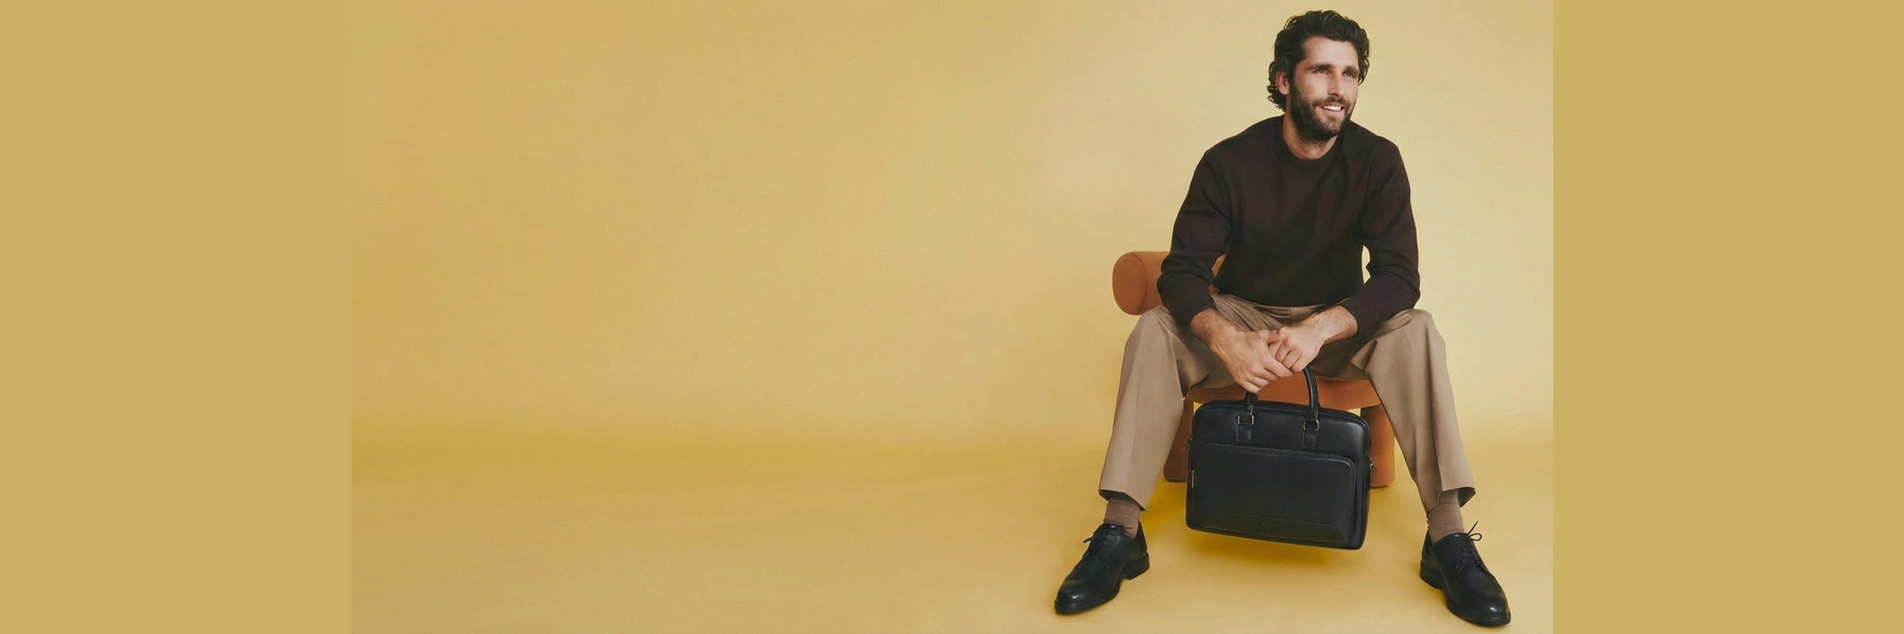
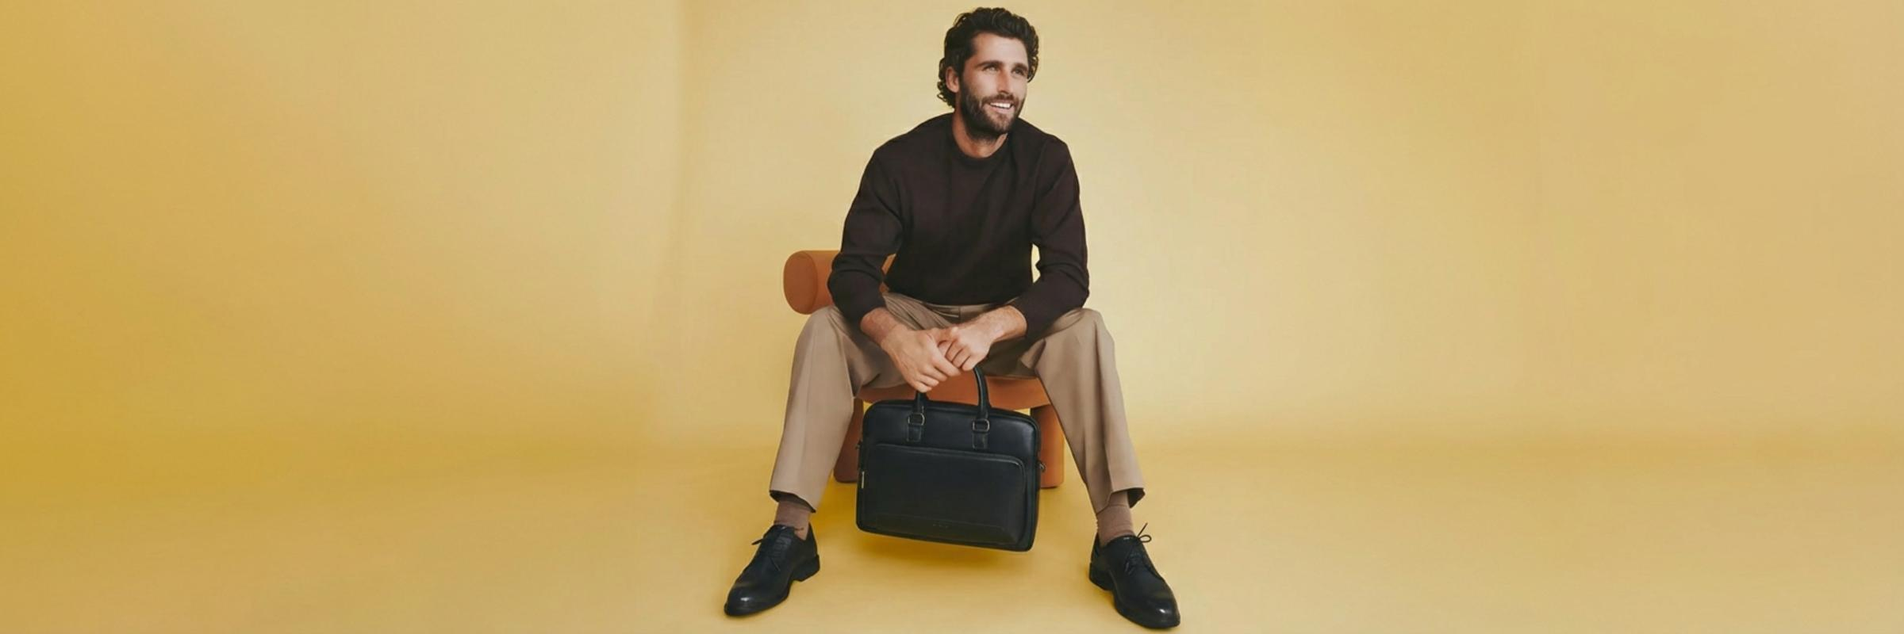
Replace Hush Puppies hero image

diff --git a/marketplace/index.html b/marketplace/index.html
@@ -596,7 +596,7 @@ body.light-mode
 <a class="srch-tag" href="brands.html">Review</a><a class="srch-tag" href="brands.html">Champion</a><a class="srch-tag" href="brands.html">Reebok</a><a class="srch-tag" href="brands.html">Clarks</a><a class="srch-tag" href="brands.html">Superdry</a>
 </div></div>
 <div id="srchResults"></div>
-</div><div class="ann" onclick="cycleAnn()" id="annBar"><div class="ann-left"><a href="#">Free Express Shipping Over $150</a><span class="ann-sep">|</span><a href="rewards.html">Collective Rewards</a><span class="ann-sep">|</span><a href="#">Download the App</a></div><div class="ann-right"><a href="#">Track Order</a><span class="ann-sep">|</span><a href="brands.html">Brands</a><span class="ann-sep">|</span><a href="#">Contact Us</a></div></div><header class="hdr hdr-v2"><div class="burger" onclick="document.getElementById('mobnav').classList.add('open')"><span></span><span></span><span></span></div><a href="index.html" class="logo"><img src="logo-white.png" alt="Brand Collective" class="logo-dark"><img src="logo-dark.png" alt="Brand Collective" class="logo-light"></a><nav class="nav-v2" role="navigation" aria-label="Main navigation"><div class="ni"><a href="new-in.html" class="nl2">New</a></div><div class="ni"><a href="women.html" class="nl2">Woman</a><div class="dd"><div class="dg"><div class="dc"><h4>Clothing</h4><a href="women.html">Dresses</a><a href="women.html">Tops &amp; Blouses</a><a href="women.html">Knitwear</a><a href="women.html">Jackets &amp; Coats</a><a href="women.html">Pants &amp; Trousers</a><a href="women.html">Skirts</a><a href="women.html">Activewear</a><div class="sub-edit"><h4>Shop by Edit</h4><a href="new-in.html">Occasionwear</a><a href="new-in.html">Weekend Edit</a><a href="new-in.html">Work Edit</a><a href="new-in.html">New Season</a><a href="new-in.html">Best Sellers</a></div></div><div class="dc"><h4>Shoes</h4><a href="women.html">Sneakers</a><a href="women.html">Boots</a><a href="women.html">Heels</a><a href="women.html">Flats</a><a href="women.html">Sandals</a><a href="women.html">Loafers</a></div><div class="dc"><h4>Accessories</h4><a href="women.html">Bags</a><a href="women.html">Jewellery</a><a href="women.html">Scarves</a><a href="women.html">Socks &amp; Hosiery</a><a href="women.html">Belts</a></div><div class="dc"><h4>Collections</h4><a href="women.html">New Season</a><a href="women.html">Best Sellers</a><a href="women.html">Back to Work</a><a href="women.html">Weekend Edit</a><a href="women.html">Sustainable</a></div></div></div></div><div class="ni"><a href="men.html" class="nl2">Man</a><div class="dd"><div class="dg"><div class="dc"><h4>Clothing</h4><a href="men.html">Shirts</a><a href="men.html">T-Shirts</a><a href="men.html">Knitwear</a><a href="men.html">Jackets &amp; Coats</a><a href="men.html">Pants &amp; Chinos</a><a href="men.html">Shorts</a><div class="sub-edit"><h4>Shop by Edit</h4><a href="new-in.html">Occasionwear</a><a href="new-in.html">Weekend Edit</a><a href="new-in.html">Work Edit</a><a href="new-in.html">New Season</a><a href="new-in.html">Best Sellers</a></div></div><div class="dc"><h4>Shoes</h4><a href="men.html">Sneakers</a><a href="men.html">Boots</a><a href="men.html">Dress Shoes</a><a href="men.html">Loafers</a><a href="men.html">Slides</a></div><div class="dc"><h4>Accessories</h4><a href="men.html">Bags &amp; Backpacks</a><a href="men.html">Wallets</a><a href="men.html">Socks</a><a href="men.html">Belts</a><a href="men.html">Hats</a></div><div class="dc"><h4>Collections</h4><a href="men.html">New Season</a><a href="men.html">Best Sellers</a><a href="men.html">Smart Casual</a><a href="men.html">Sports Performance</a></div></div></div></div><div class="ni"><a href="kids.html" class="nl2">Child</a><div class="dd"><div class="dg"><div class="dc"><h4>Girls</h4><a href="kids.html">Dresses</a><a href="kids.html">Tops</a><a href="kids.html">Pants &amp; Leggings</a><a href="kids.html">Outerwear</a><a href="kids.html">School</a></div><div class="dc"><h4>Boys</h4><a href="kids.html">Tops &amp; Shirts</a><a href="kids.html">Pants &amp; Shorts</a><a href="kids.html">Outerwear</a><a href="kids.html">School</a></div><div class="dc"><h4>Shoes</h4><a href="kids.html">School Shoes</a><a href="kids.html">Sneakers</a><a href="kids.html">Boots</a><a href="kids.html">Sandals</a></div><div class="dc"><h4>By Age</h4><a href="kids.html">Baby (0-2)</a><a href="kids.html">Toddler (2-4)</a><a href="kids.html">Kids (4-10)</a><a href="kids.html">Tweens (10-14)</a></div></div></div></div><div class="ni"><a href="new-in.html" class="nl2">Home</a><div class="dd"><div class="dg"><div class="dc"><h4>Home</h4><a href="new-in.html">Candles &amp; Fragrance</a><a href="new-in.html">Cushions &amp; Throws</a><a href="new-in.html">Tableware</a><a href="new-in.html">Stationery</a><a href="new-in.html">Books</a><a href="new-in.html">Storage &amp; Organisation</a></div><div class="dc"><h4>Gifts</h4><a href="new-in.html">Gift Cards</a><a href="new-in.html">Gift Sets</a><a href="new-in.html">Under $50</a><a href="new-in.html">Under $100</a><a href="new-in.html">Luxury Gifts</a><a href="new-in.html">Personalised</a></div><div class="dc"><h4>By Occasion</h4><a href="new-in.html">Birthday</a><a href="new-in.html">Anniversary</a><a href="new-in.html">Thank You</a><a href="new-in.html">Housewarming</a><a href="new-in.html">Corporate</a><a href="new-in.html">Christmas</a></div><div class="dc"><h4>Trending</h4><a href="new-in.html">New In Home</a><a href="new-in.html">Best Sellers</a><a href="new-in.html">Sustainable Living</a><a href="new-in.html">Happy Socks Home</a></div></div></div></div><div class="ni"><a href="brands.html" class="nl2">Brands</a><div class="dd" style="padding:32px 48px"><div style="max-width:1200px;margin:0 auto"><div style="display:flex;justify-content:space-between;align-items:center;margin-bottom:20px"><h4 style="font-size:12px;letter-spacing:1.5px;text-transform:uppercase;color:var(--bk);font-weight:700">Our Brands <span style="color:var(--gy);font-weight:500">50 brands</span></h4><a href="brands.html" style="font-size:12px;letter-spacing:.3px;text-transform:uppercase;font-weight:600;color:var(--bk);display:flex;align-items:center;gap:4px">View All &rarr;</a></div><div class="bix"><div class="bix-col"><a href="brands.html">Adidas</a><a href="brands.html">ASICS</a><a href="brands.html">Bare Traps</a><a href="brands.html">Birkenstock</a><a href="brands.html" class="own">Black Pepper</a><a href="brands.html">Bobux</a><a href="brands.html" class="own">Canada Goose</a><a href="brands.html" class="own">Champion</a><a href="brands.html" class="own">Clarks</a><a href="brands.html">Colorado</a></div><div class="bix-col"><a href="brands.html">Converse</a><a href="brands.html">Crocs</a><a href="brands.html">Diana Ferrari</a><a href="brands.html" class="own">Elka Collective</a><a href="brands.html" class="own">Everlast</a><a href="brands.html">Geox</a><a href="brands.html">Grosby</a><a href="brands.html" class="own">Happy Socks</a><a href="brands.html" class="own">Harrison</a><a href="brands.html" class="own">Hush Puppies</a></div><div class="bix-col"><a href="brands.html" class="own">Julius Marlow</a><a href="brands.html">Just Bee</a><a href="brands.html" class="own">Marco Polo</a><a href="brands.html">Naturalizer</a><a href="brands.html">New Balance</a><a href="brands.html">Nike</a><a href="brands.html">Old Soles</a><a href="brands.html">Plae</a><a href="brands.html">Puma</a><a href="brands.html" class="own">Reebok</a></div><div class="bix-col"><a href="brands.html" class="own">Replay</a><a href="brands.html" class="own">Review</a><a href="brands.html">ROC</a><a href="brands.html">Sandler</a><a href="brands.html">Saucony</a><a href="brands.html">Scholl</a><a href="brands.html" class="own">Shoe Warehouse</a><a href="brands.html" class="own">Shoes &amp; Sox</a><a href="brands.html">Simona Ricci</a><a href="brands.html">Skechers</a></div><div class="bix-col"><a href="brands.html">Start Rite</a><a href="brands.html">Step On Air</a><a href="brands.html" class="own">Superdry</a><a href="brands.html">UGG</a><a href="brands.html" class="own">Umbro</a><a href="brands.html">Vans</a><a href="brands.html" class="own">Volley</a><a href="brands.html">Wild Rhino</a><a href="brands.html">Windsor Smith</a><a href="brands.html" class="own">Yarra Trail</a></div></div></div></div></div><div class="ni"><a href="sale.html" class="nl2 sale">Sale</a></div></nav><div class="srch srch-v2" onclick="openSearch()"><svg viewBox="0 0 24 24" fill="none" stroke="currentColor" stroke-width="1.5"><circle cx="11" cy="11" r="8"/><path d="m21 21-4.3-4.3"/></svg>Search products and brands...</div><div class="hr"><a href="rewards.html" class="ic rewards-ic" title="Collective Rewards" style="position:relative;font-size:11px;font-weight:700;letter-spacing:.3px;gap:4px;display:flex;align-items:center"><span class="cr-badge">CR</span></a><a href="#" class="ic" title="Account"><svg viewBox="0 0 24 24" fill="none" stroke="currentColor" stroke-width="1.5"><path d="M20 21v-2a4 4 0 0 0-4-4H8a4 4 0 0 0-4 4v2"/><circle cx="12" cy="7" r="4"/></svg></a><a href="#" class="ic" title="Wishlist"><svg viewBox="0 0 24 24" fill="none" stroke="currentColor" stroke-width="1.5"><path d="M20.8 4.6a5.5 5.5 0 0 0-7.8 0L12 5.7l-1-1.1a5.5 5.5 0 0 0-7.8 7.8l1 1.1L12 21.3l7.8-7.8 1-1.1a5.5 5.5 0 0 0 0-7.8z"/></svg></a><a href="#" class="ic" title="Bag" style="position:relative" onclick="event.preventDefault();openCart()"><svg viewBox="0 0 24 24" fill="none" stroke="currentColor" stroke-width="1.5"><path d="M6 2 3 6v14a2 2 0 0 0 2 2h14a2 2 0 0 0 2-2V6l-3-4zM3 6h18M16 10a4 4 0 0 1-8 0"/></svg><span class="dot">3</span></a><button class="theme-toggle ic" onclick="event.stopPropagation();toggleTheme()" title="Toggle light/dark mode"><svg class="theme-sun" viewBox="0 0 24 24" fill="none" stroke="currentColor" stroke-width="1.5"><circle cx="12" cy="12" r="5"/><line x1="12" y1="1" x2="12" y2="3"/><line x1="12" y1="21" x2="12" y2="23"/><line x1="4.22" y1="4.22" x2="5.64" y2="5.64"/><line x1="18.36" y1="18.36" x2="19.78" y2="19.78"/><line x1="1" y1="12" x2="3" y2="12"/><line x1="21" y1="12" x2="23" y2="12"/><line x1="4.22" y1="19.78" x2="5.64" y2="18.36"/><line x1="18.36" y1="5.64" x2="19.78" y2="4.22"/></svg><svg class="theme-moon" viewBox="0 0 24 24" fill="none" stroke="currentColor" stroke-width="1.5"><path d="M21 12.79A9 9 0 1 1 11.21 3 7 7 0 0 0 21 12.79z"/></svg></button></div></header><div class="mob-nav" id="mobnav"><div class="mob-close" onclick="document.getElementById('mobnav').classList.remove('open')"><svg viewBox="0 0 24 24" fill="none" stroke="currentColor" stroke-width="2"><path d="M18 6 6 18M6 6l12 12"/></svg></div><div class="mob-nav-list"><a href="women.html">Woman</a><a href="men.html">Man</a><a href="kids.html">Child</a><a href="new-in.html">Home</a><a href="sale.html" style="color:#DC2525">Sale</a><hr style="border:none;border-top:1px solid var(--bd);margin:12px 0"><a href="brands.html">Brands</a><a href="shoes.html">Shoes</a><a href="new-in.html">New In</a></div></div><main><section class="hero-slider"><!-- mosaic removed --><div class="hero-slide hero-dark active" data-slide="0"><div class="hero-bg" style="background-image:url(img/hero-reebok-banner.jpg);background-color:#000"></div><div class="hrc"><div class="ey-logo"><img src="img/brands/reebok.png" alt="Reebok"></div><h2 class="hrt">Train<br>Different</h2><p class="hrs">Performance built for those who push limits.<br>The Reebok training collection.</p><div class="hra"><a href="men.html" class="bw">Shop Reebok <svg viewBox="0 0 24 24" fill="none" stroke="currentColor" stroke-width="2"><path d="M5 12h14M12 5l7 7-7 7"/></svg></a><a href="brands.html" class="bo">All Brands</a></div></div></div><div class="hero-slide hero-dark" data-slide="1"><div class="hero-bg" style="background-image:url(img/hero-champion-black.jpg);background-color:#D1CBCB"></div><div class="hrc"><div class="ey-logo"><img src="img/brands/champion.svg" alt="Champion"></div><h2 class="hrt">Move In<br>Darkness</h2><p class="hrs">All-black. All power. The new Champion Black Edition collection.</p><div class="hra"><a href="men.html" class="bw">Shop Black Edition <svg viewBox="0 0 24 24" fill="none" stroke="currentColor" stroke-width="2"><path d="M5 12h14M12 5l7 7-7 7"/></svg></a><a href="brands.html" class="bo">All Brands</a></div></div></div><div class="hero-slide hero-dark" data-slide="2"><div class="hero-bg" style="background-image:url(img/cat-men.jpg);background-color:#5E4B3D"></div><div class="hrc"><div class="ey-logo"><img src="img/brands/champion.svg" alt="Champion"></div><h2 class="hrt">Heritage Meets<br>Modern Street</h2><p class="hrs">The new Champion winter collection. Warmth, comfort, unmistakable style.</p><div class="hra"><a href="men.html" class="bw">Shop Champion <svg viewBox="0 0 24 24" fill="none" stroke="currentColor" stroke-width="2"><path d="M5 12h14M12 5l7 7-7 7"/></svg></a><a href="men.html" class="bo">Shop Men&#39;s</a></div></div></div><div class="hero-slide hero-dark" data-slide="3"><div class="hero-bg" style="background-image:url(img/hero-sns.jpg);background-color:#FF4B10"></div><div class="hrc"><div class="ey-logo"><img src="img/brands/shoesandsox.svg" alt="Shoes &amp; Sox"></div><h2 class="hrt">Australia&#39;s Kids&#39;<br>Footwear<br>Destination</h2><p class="hrs">From first steps to the schoolyard.<br>The brands they love, the fit they need.</p><div class="hra"><a href="kids.html" class="bw">Shop Shoes &amp; Sox <svg viewBox="0 0 24 24" fill="none" stroke="currentColor" stroke-width="2"><path d="M5 12h14M12 5l7 7-7 7"/></svg></a><a href="kids.html" class="bo">Shop Kids&#39;</a></div></div></div><div class="hero-slide hero-dark hero-elka" data-slide="4"><div class="hero-bg" style="background-image:url(img/products/elkacollective_3.jpg)"></div><div class="hrc"><div class="ey-logo"><img src="img/brands/elka.svg" alt="Elka Collective"></div><h2 class="hrt">Effortless<br>Australian<br>Style</h2><p class="hrs">Modern silhouettes, elevated essentials.<br>Designed in Melbourne.</p><div class="hra"><a href="women.html" class="bw">Shop Elka <svg viewBox="0 0 24 24" fill="none" stroke="currentColor" stroke-width="2"><path d="M5 12h14M12 5l7 7-7 7"/></svg></a><a href="brands.html" class="bo">All Brands</a></div></div></div><div class="hero-slide hero-dark" data-slide="5"><div class="hero-bg" style="background-image:url(img/hero-review.jpg);background-color:#58514B"></div><div class="hrc"><div class="ey-logo"><img src="img/brands/review.svg" alt="Review"></div><h2 class="hrt">Modern<br>Mariner</h2><p class="hrs">Romantic silhouettes, coastal ease.<br>The new Review collection, designed in Melbourne.</p><div class="hra"><a href="women.html" class="bw">Shop Review <svg viewBox="0 0 24 24" fill="none" stroke="currentColor" stroke-width="2"><path d="M5 12h14M12 5l7 7-7 7"/></svg></a><a href="brands.html" class="bo">All Brands</a></div></div></div><div class="hero-slide" data-slide="6"><div class="hero-bg" style="background-image:url(img/hero-hushpuppies.jpg);background-color:#CCB066"></div><div class="hrc"><div class="ey-logo"><img src="img/brands/hushpuppies.svg" alt="Hush Puppies"></div><h2 class="hrt">Step Into<br>Comfort</h2><p class="hrs">Timeless comfort meets modern craft.<br>Shoes designed to be lived in.</p><div class="hra"><a href="shoes.html" class="bw">Shop Hush Puppies <svg viewBox="0 0 24 24" fill="none" stroke="currentColor" stroke-width="2"><path d="M5 12h14M12 5l7 7-7 7"/></svg></a><a href="brands.html" class="bo">All Brands</a></div></div></div><div class="hero-dots"><button class="hero-dot active" onclick="goSlide(0)" aria-label="Slide 1"></button><button class="hero-dot" onclick="goSlide(1)" aria-label="Slide 2"></button><button class="hero-dot" onclick="goSlide(2)" aria-label="Slide 3"></button><button class="hero-dot" onclick="goSlide(3)" aria-label="Slide 4"></button><button class="hero-dot" onclick="goSlide(4)" aria-label="Slide 5"></button><button class="hero-dot" onclick="goSlide(5)" aria-label="Slide 6"></button><button class="hero-dot" onclick="goSlide(6)" aria-label="Slide 7"></button></div><button class="hero-arrow hero-prev" onclick="prevSlide()" aria-label="Previous slide"><svg viewBox="0 0 24 24" fill="none" stroke="currentColor" stroke-width="2"><path d="M15 18l-6-6 6-6"/></svg></button><button class="hero-arrow hero-next" onclick="nextSlide()" aria-label="Next slide"><svg viewBox="0 0 24 24" fill="none" stroke="currentColor" stroke-width="2"><path d="M9 18l6-6-6-6"/></svg></button></section><script>
+</div><div class="ann" onclick="cycleAnn()" id="annBar"><div class="ann-left"><a href="#">Free Express Shipping Over $150</a><span class="ann-sep">|</span><a href="rewards.html">Collective Rewards</a><span class="ann-sep">|</span><a href="#">Download the App</a></div><div class="ann-right"><a href="#">Track Order</a><span class="ann-sep">|</span><a href="brands.html">Brands</a><span class="ann-sep">|</span><a href="#">Contact Us</a></div></div><header class="hdr hdr-v2"><div class="burger" onclick="document.getElementById('mobnav').classList.add('open')"><span></span><span></span><span></span></div><a href="index.html" class="logo"><img src="logo-white.png" alt="Brand Collective" class="logo-dark"><img src="logo-dark.png" alt="Brand Collective" class="logo-light"></a><nav class="nav-v2" role="navigation" aria-label="Main navigation"><div class="ni"><a href="new-in.html" class="nl2">New</a></div><div class="ni"><a href="women.html" class="nl2">Woman</a><div class="dd"><div class="dg"><div class="dc"><h4>Clothing</h4><a href="women.html">Dresses</a><a href="women.html">Tops &amp; Blouses</a><a href="women.html">Knitwear</a><a href="women.html">Jackets &amp; Coats</a><a href="women.html">Pants &amp; Trousers</a><a href="women.html">Skirts</a><a href="women.html">Activewear</a><div class="sub-edit"><h4>Shop by Edit</h4><a href="new-in.html">Occasionwear</a><a href="new-in.html">Weekend Edit</a><a href="new-in.html">Work Edit</a><a href="new-in.html">New Season</a><a href="new-in.html">Best Sellers</a></div></div><div class="dc"><h4>Shoes</h4><a href="women.html">Sneakers</a><a href="women.html">Boots</a><a href="women.html">Heels</a><a href="women.html">Flats</a><a href="women.html">Sandals</a><a href="women.html">Loafers</a></div><div class="dc"><h4>Accessories</h4><a href="women.html">Bags</a><a href="women.html">Jewellery</a><a href="women.html">Scarves</a><a href="women.html">Socks &amp; Hosiery</a><a href="women.html">Belts</a></div><div class="dc"><h4>Collections</h4><a href="women.html">New Season</a><a href="women.html">Best Sellers</a><a href="women.html">Back to Work</a><a href="women.html">Weekend Edit</a><a href="women.html">Sustainable</a></div></div></div></div><div class="ni"><a href="men.html" class="nl2">Man</a><div class="dd"><div class="dg"><div class="dc"><h4>Clothing</h4><a href="men.html">Shirts</a><a href="men.html">T-Shirts</a><a href="men.html">Knitwear</a><a href="men.html">Jackets &amp; Coats</a><a href="men.html">Pants &amp; Chinos</a><a href="men.html">Shorts</a><div class="sub-edit"><h4>Shop by Edit</h4><a href="new-in.html">Occasionwear</a><a href="new-in.html">Weekend Edit</a><a href="new-in.html">Work Edit</a><a href="new-in.html">New Season</a><a href="new-in.html">Best Sellers</a></div></div><div class="dc"><h4>Shoes</h4><a href="men.html">Sneakers</a><a href="men.html">Boots</a><a href="men.html">Dress Shoes</a><a href="men.html">Loafers</a><a href="men.html">Slides</a></div><div class="dc"><h4>Accessories</h4><a href="men.html">Bags &amp; Backpacks</a><a href="men.html">Wallets</a><a href="men.html">Socks</a><a href="men.html">Belts</a><a href="men.html">Hats</a></div><div class="dc"><h4>Collections</h4><a href="men.html">New Season</a><a href="men.html">Best Sellers</a><a href="men.html">Smart Casual</a><a href="men.html">Sports Performance</a></div></div></div></div><div class="ni"><a href="kids.html" class="nl2">Child</a><div class="dd"><div class="dg"><div class="dc"><h4>Girls</h4><a href="kids.html">Dresses</a><a href="kids.html">Tops</a><a href="kids.html">Pants &amp; Leggings</a><a href="kids.html">Outerwear</a><a href="kids.html">School</a></div><div class="dc"><h4>Boys</h4><a href="kids.html">Tops &amp; Shirts</a><a href="kids.html">Pants &amp; Shorts</a><a href="kids.html">Outerwear</a><a href="kids.html">School</a></div><div class="dc"><h4>Shoes</h4><a href="kids.html">School Shoes</a><a href="kids.html">Sneakers</a><a href="kids.html">Boots</a><a href="kids.html">Sandals</a></div><div class="dc"><h4>By Age</h4><a href="kids.html">Baby (0-2)</a><a href="kids.html">Toddler (2-4)</a><a href="kids.html">Kids (4-10)</a><a href="kids.html">Tweens (10-14)</a></div></div></div></div><div class="ni"><a href="new-in.html" class="nl2">Home</a><div class="dd"><div class="dg"><div class="dc"><h4>Home</h4><a href="new-in.html">Candles &amp; Fragrance</a><a href="new-in.html">Cushions &amp; Throws</a><a href="new-in.html">Tableware</a><a href="new-in.html">Stationery</a><a href="new-in.html">Books</a><a href="new-in.html">Storage &amp; Organisation</a></div><div class="dc"><h4>Gifts</h4><a href="new-in.html">Gift Cards</a><a href="new-in.html">Gift Sets</a><a href="new-in.html">Under $50</a><a href="new-in.html">Under $100</a><a href="new-in.html">Luxury Gifts</a><a href="new-in.html">Personalised</a></div><div class="dc"><h4>By Occasion</h4><a href="new-in.html">Birthday</a><a href="new-in.html">Anniversary</a><a href="new-in.html">Thank You</a><a href="new-in.html">Housewarming</a><a href="new-in.html">Corporate</a><a href="new-in.html">Christmas</a></div><div class="dc"><h4>Trending</h4><a href="new-in.html">New In Home</a><a href="new-in.html">Best Sellers</a><a href="new-in.html">Sustainable Living</a><a href="new-in.html">Happy Socks Home</a></div></div></div></div><div class="ni"><a href="brands.html" class="nl2">Brands</a><div class="dd" style="padding:32px 48px"><div style="max-width:1200px;margin:0 auto"><div style="display:flex;justify-content:space-between;align-items:center;margin-bottom:20px"><h4 style="font-size:12px;letter-spacing:1.5px;text-transform:uppercase;color:var(--bk);font-weight:700">Our Brands <span style="color:var(--gy);font-weight:500">50 brands</span></h4><a href="brands.html" style="font-size:12px;letter-spacing:.3px;text-transform:uppercase;font-weight:600;color:var(--bk);display:flex;align-items:center;gap:4px">View All &rarr;</a></div><div class="bix"><div class="bix-col"><a href="brands.html">Adidas</a><a href="brands.html">ASICS</a><a href="brands.html">Bare Traps</a><a href="brands.html">Birkenstock</a><a href="brands.html" class="own">Black Pepper</a><a href="brands.html">Bobux</a><a href="brands.html" class="own">Canada Goose</a><a href="brands.html" class="own">Champion</a><a href="brands.html" class="own">Clarks</a><a href="brands.html">Colorado</a></div><div class="bix-col"><a href="brands.html">Converse</a><a href="brands.html">Crocs</a><a href="brands.html">Diana Ferrari</a><a href="brands.html" class="own">Elka Collective</a><a href="brands.html" class="own">Everlast</a><a href="brands.html">Geox</a><a href="brands.html">Grosby</a><a href="brands.html" class="own">Happy Socks</a><a href="brands.html" class="own">Harrison</a><a href="brands.html" class="own">Hush Puppies</a></div><div class="bix-col"><a href="brands.html" class="own">Julius Marlow</a><a href="brands.html">Just Bee</a><a href="brands.html" class="own">Marco Polo</a><a href="brands.html">Naturalizer</a><a href="brands.html">New Balance</a><a href="brands.html">Nike</a><a href="brands.html">Old Soles</a><a href="brands.html">Plae</a><a href="brands.html">Puma</a><a href="brands.html" class="own">Reebok</a></div><div class="bix-col"><a href="brands.html" class="own">Replay</a><a href="brands.html" class="own">Review</a><a href="brands.html">ROC</a><a href="brands.html">Sandler</a><a href="brands.html">Saucony</a><a href="brands.html">Scholl</a><a href="brands.html" class="own">Shoe Warehouse</a><a href="brands.html" class="own">Shoes &amp; Sox</a><a href="brands.html">Simona Ricci</a><a href="brands.html">Skechers</a></div><div class="bix-col"><a href="brands.html">Start Rite</a><a href="brands.html">Step On Air</a><a href="brands.html" class="own">Superdry</a><a href="brands.html">UGG</a><a href="brands.html" class="own">Umbro</a><a href="brands.html">Vans</a><a href="brands.html" class="own">Volley</a><a href="brands.html">Wild Rhino</a><a href="brands.html">Windsor Smith</a><a href="brands.html" class="own">Yarra Trail</a></div></div></div></div></div><div class="ni"><a href="sale.html" class="nl2 sale">Sale</a></div></nav><div class="srch srch-v2" onclick="openSearch()"><svg viewBox="0 0 24 24" fill="none" stroke="currentColor" stroke-width="1.5"><circle cx="11" cy="11" r="8"/><path d="m21 21-4.3-4.3"/></svg>Search products and brands...</div><div class="hr"><a href="rewards.html" class="ic rewards-ic" title="Collective Rewards" style="position:relative;font-size:11px;font-weight:700;letter-spacing:.3px;gap:4px;display:flex;align-items:center"><span class="cr-badge">CR</span></a><a href="#" class="ic" title="Account"><svg viewBox="0 0 24 24" fill="none" stroke="currentColor" stroke-width="1.5"><path d="M20 21v-2a4 4 0 0 0-4-4H8a4 4 0 0 0-4 4v2"/><circle cx="12" cy="7" r="4"/></svg></a><a href="#" class="ic" title="Wishlist"><svg viewBox="0 0 24 24" fill="none" stroke="currentColor" stroke-width="1.5"><path d="M20.8 4.6a5.5 5.5 0 0 0-7.8 0L12 5.7l-1-1.1a5.5 5.5 0 0 0-7.8 7.8l1 1.1L12 21.3l7.8-7.8 1-1.1a5.5 5.5 0 0 0 0-7.8z"/></svg></a><a href="#" class="ic" title="Bag" style="position:relative" onclick="event.preventDefault();openCart()"><svg viewBox="0 0 24 24" fill="none" stroke="currentColor" stroke-width="1.5"><path d="M6 2 3 6v14a2 2 0 0 0 2 2h14a2 2 0 0 0 2-2V6l-3-4zM3 6h18M16 10a4 4 0 0 1-8 0"/></svg><span class="dot">3</span></a><button class="theme-toggle ic" onclick="event.stopPropagation();toggleTheme()" title="Toggle light/dark mode"><svg class="theme-sun" viewBox="0 0 24 24" fill="none" stroke="currentColor" stroke-width="1.5"><circle cx="12" cy="12" r="5"/><line x1="12" y1="1" x2="12" y2="3"/><line x1="12" y1="21" x2="12" y2="23"/><line x1="4.22" y1="4.22" x2="5.64" y2="5.64"/><line x1="18.36" y1="18.36" x2="19.78" y2="19.78"/><line x1="1" y1="12" x2="3" y2="12"/><line x1="21" y1="12" x2="23" y2="12"/><line x1="4.22" y1="19.78" x2="5.64" y2="18.36"/><line x1="18.36" y1="5.64" x2="19.78" y2="4.22"/></svg><svg class="theme-moon" viewBox="0 0 24 24" fill="none" stroke="currentColor" stroke-width="1.5"><path d="M21 12.79A9 9 0 1 1 11.21 3 7 7 0 0 0 21 12.79z"/></svg></button></div></header><div class="mob-nav" id="mobnav"><div class="mob-close" onclick="document.getElementById('mobnav').classList.remove('open')"><svg viewBox="0 0 24 24" fill="none" stroke="currentColor" stroke-width="2"><path d="M18 6 6 18M6 6l12 12"/></svg></div><div class="mob-nav-list"><a href="women.html">Woman</a><a href="men.html">Man</a><a href="kids.html">Child</a><a href="new-in.html">Home</a><a href="sale.html" style="color:#DC2525">Sale</a><hr style="border:none;border-top:1px solid var(--bd);margin:12px 0"><a href="brands.html">Brands</a><a href="shoes.html">Shoes</a><a href="new-in.html">New In</a></div></div><main><section class="hero-slider"><!-- mosaic removed --><div class="hero-slide hero-dark active" data-slide="0"><div class="hero-bg" style="background-image:url(img/hero-reebok-banner.jpg);background-color:#000"></div><div class="hrc"><div class="ey-logo"><img src="img/brands/reebok.png" alt="Reebok"></div><h2 class="hrt">Train<br>Different</h2><p class="hrs">Performance built for those who push limits.<br>The Reebok training collection.</p><div class="hra"><a href="men.html" class="bw">Shop Reebok <svg viewBox="0 0 24 24" fill="none" stroke="currentColor" stroke-width="2"><path d="M5 12h14M12 5l7 7-7 7"/></svg></a><a href="brands.html" class="bo">All Brands</a></div></div></div><div class="hero-slide hero-dark" data-slide="1"><div class="hero-bg" style="background-image:url(img/hero-champion-black.jpg);background-color:#D1CBCB"></div><div class="hrc"><div class="ey-logo"><img src="img/brands/champion.svg" alt="Champion"></div><h2 class="hrt">Move In<br>Darkness</h2><p class="hrs">All-black. All power. The new Champion Black Edition collection.</p><div class="hra"><a href="men.html" class="bw">Shop Black Edition <svg viewBox="0 0 24 24" fill="none" stroke="currentColor" stroke-width="2"><path d="M5 12h14M12 5l7 7-7 7"/></svg></a><a href="brands.html" class="bo">All Brands</a></div></div></div><div class="hero-slide hero-dark" data-slide="2"><div class="hero-bg" style="background-image:url(img/cat-men.jpg);background-color:#5E4B3D"></div><div class="hrc"><div class="ey-logo"><img src="img/brands/champion.svg" alt="Champion"></div><h2 class="hrt">Heritage Meets<br>Modern Street</h2><p class="hrs">The new Champion winter collection. Warmth, comfort, unmistakable style.</p><div class="hra"><a href="men.html" class="bw">Shop Champion <svg viewBox="0 0 24 24" fill="none" stroke="currentColor" stroke-width="2"><path d="M5 12h14M12 5l7 7-7 7"/></svg></a><a href="men.html" class="bo">Shop Men&#39;s</a></div></div></div><div class="hero-slide hero-dark" data-slide="3"><div class="hero-bg" style="background-image:url(img/hero-sns.jpg);background-color:#FF4B10"></div><div class="hrc"><div class="ey-logo"><img src="img/brands/shoesandsox.svg" alt="Shoes &amp; Sox"></div><h2 class="hrt">Australia&#39;s Kids&#39;<br>Footwear<br>Destination</h2><p class="hrs">From first steps to the schoolyard.<br>The brands they love, the fit they need.</p><div class="hra"><a href="kids.html" class="bw">Shop Shoes &amp; Sox <svg viewBox="0 0 24 24" fill="none" stroke="currentColor" stroke-width="2"><path d="M5 12h14M12 5l7 7-7 7"/></svg></a><a href="kids.html" class="bo">Shop Kids&#39;</a></div></div></div><div class="hero-slide hero-dark hero-elka" data-slide="4"><div class="hero-bg" style="background-image:url(img/products/elkacollective_3.jpg)"></div><div class="hrc"><div class="ey-logo"><img src="img/brands/elka.svg" alt="Elka Collective"></div><h2 class="hrt">Effortless<br>Australian<br>Style</h2><p class="hrs">Modern silhouettes, elevated essentials.<br>Designed in Melbourne.</p><div class="hra"><a href="women.html" class="bw">Shop Elka <svg viewBox="0 0 24 24" fill="none" stroke="currentColor" stroke-width="2"><path d="M5 12h14M12 5l7 7-7 7"/></svg></a><a href="brands.html" class="bo">All Brands</a></div></div></div><div class="hero-slide hero-dark" data-slide="5"><div class="hero-bg" style="background-image:url(img/hero-review.jpg);background-color:#58514B"></div><div class="hrc"><div class="ey-logo"><img src="img/brands/review.svg" alt="Review"></div><h2 class="hrt">Modern<br>Mariner</h2><p class="hrs">Romantic silhouettes, coastal ease.<br>The new Review collection, designed in Melbourne.</p><div class="hra"><a href="women.html" class="bw">Shop Review <svg viewBox="0 0 24 24" fill="none" stroke="currentColor" stroke-width="2"><path d="M5 12h14M12 5l7 7-7 7"/></svg></a><a href="brands.html" class="bo">All Brands</a></div></div></div><div class="hero-slide" data-slide="6"><div class="hero-bg" style="background-image:url(img/hero-hushpuppies.jpg);background-color:#C8A84E"></div><div class="hrc"><div class="ey-logo"><img src="img/brands/hushpuppies.svg" alt="Hush Puppies"></div><h2 class="hrt">Step Into<br>Comfort</h2><p class="hrs">Timeless comfort meets modern craft.<br>Shoes designed to be lived in.</p><div class="hra"><a href="shoes.html" class="bw">Shop Hush Puppies <svg viewBox="0 0 24 24" fill="none" stroke="currentColor" stroke-width="2"><path d="M5 12h14M12 5l7 7-7 7"/></svg></a><a href="brands.html" class="bo">All Brands</a></div></div></div><div class="hero-dots"><button class="hero-dot active" onclick="goSlide(0)" aria-label="Slide 1"></button><button class="hero-dot" onclick="goSlide(1)" aria-label="Slide 2"></button><button class="hero-dot" onclick="goSlide(2)" aria-label="Slide 3"></button><button class="hero-dot" onclick="goSlide(3)" aria-label="Slide 4"></button><button class="hero-dot" onclick="goSlide(4)" aria-label="Slide 5"></button><button class="hero-dot" onclick="goSlide(5)" aria-label="Slide 6"></button><button class="hero-dot" onclick="goSlide(6)" aria-label="Slide 7"></button></div><button class="hero-arrow hero-prev" onclick="prevSlide()" aria-label="Previous slide"><svg viewBox="0 0 24 24" fill="none" stroke="currentColor" stroke-width="2"><path d="M15 18l-6-6 6-6"/></svg></button><button class="hero-arrow hero-next" onclick="nextSlide()" aria-label="Next slide"><svg viewBox="0 0 24 24" fill="none" stroke="currentColor" stroke-width="2"><path d="M9 18l6-6-6-6"/></svg></button></section><script>
 let cur=0,total=document.querySelectorAll('.hero-slide').length,timer=setInterval(nextSlide,6000);document.addEventListener('visibilitychange',()=>{if(document.hidden){clearInterval(timer)}else{clearInterval(timer);timer=setInterval(nextSlide,6000)}});
 function goSlide(n){cur=n;update()}
 function nextSlide(){cur=(cur+1)%total;update()}
